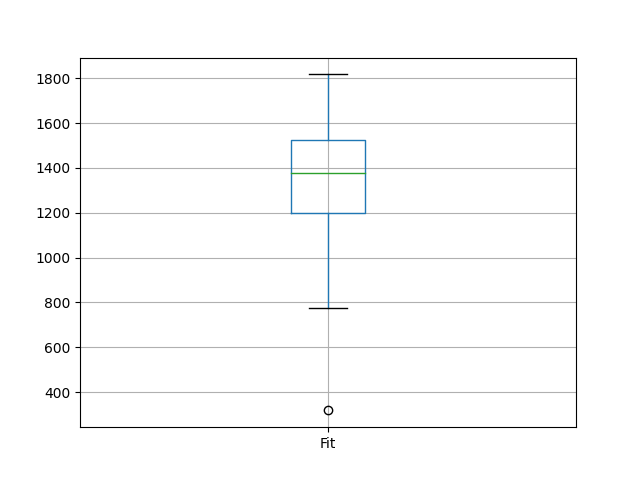
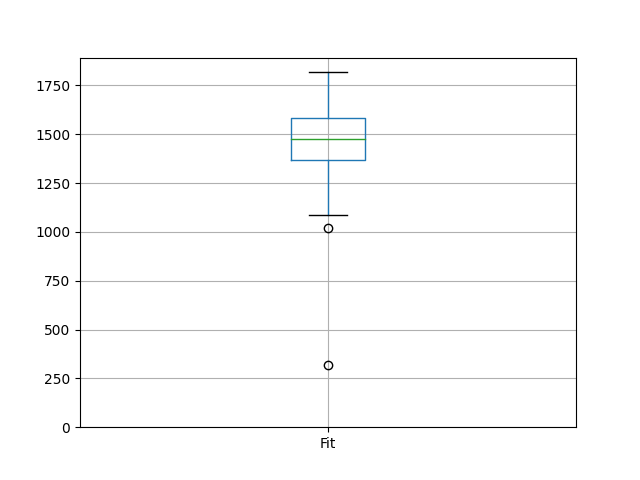
update box plots

diff --git a/analyse.py b/analyse.py
@@ -35,21 +35,25 @@ def analyse_csvs_df(data_loc):
 def create_comparison_plots(data_loc):
     df_results = pd.read_csv(data_loc)
     df_results = df_results[["Run","Fit","Gen","Cost","Num_Players","Team","BitString", "Config"]]
-    df_results = df_results[~df_results.Config.str.match('.*random.*|.*shuffle.*')]
+    df_results = df_results[~df_results.Config.str.match('.*random.*|.*shuffle.*|.*uniform.*')]
     empty = df_results[df_results.Config.str.match('.*empty.*')]
     empty.boxplot(column='Fit')
+    plt.ylim(ymin=0)
     plt.savefig('charts/empty_boxplot.png')
     plt.clf()
     onePicked = df_results[df_results.Config.str.match('.*onePicked.*')]
     onePicked.boxplot(column='Fit')
+    plt.ylim(ymin=0)
     plt.savefig('charts/onePicked_boxplot.png')
     plt.clf()
     onePoint = df_results[df_results.Config.str.match('.*onePoint.*')]
     onePoint.boxplot(column='Fit')
+    plt.ylim(ymin=0)
     plt.savefig('charts/onePoint_boxplot.png')
     plt.clf()
     twoPoint = df_results[df_results.Config.str.match('.*twoPoint.*')]
     twoPoint.boxplot(column='Fit')
+    plt.ylim(ymin=0)
     plt.savefig('charts/twoPoint_boxplot.png')
     plt.clf()
     twoPoint.to_csv('two_point_test.csv', mode='w')

diff --git a/boxplot.py b/boxplot.py
@@ -1,0 +1,1 @@
+import matplotlib.pyplot as plt
